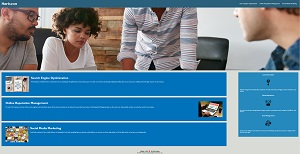
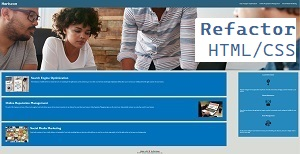
created readme file

diff --git a/assets/style.css b/assets/style.css
@@ -1,14 +1,15 @@
 body {
     background-color: lightgrey;
+    font-family: Georgia, 'Times New Roman', Times, serif;
 }
 
 header {
   display: flex;  
   justify-content: space-between;
   align-items: center;
-  background-color: darkgray;
   padding: 1%;
   height: 5vh;
+  background-color: rgb(165, 203, 235);;
 }
 
 nav {
@@ -22,21 +23,17 @@ nav {
     justify-content: space-around;
 }
 
-/* /* MIGHT HAVE TO DELETE */
 main {
     display: flex; 
-    /* display: 4;  */
-    /* height: 90vh; */
 } 
 
 .sidebar {
     background-color: steelblue;
     display: flex;
     flex-direction: column;
-    justify-content: space-around;
+    justify-content: space-between;
     /* margin-bottom: -3.3%; */
-    /* max-width: 10%; */
-    /* order: 1; */
+    width: 5.5%;
 }
 
 #item-1 {
@@ -58,16 +55,14 @@ flex-direction: column;
 }
 
 .about-me {
-/* flex: 1; */
-    /* order: 2; */
-/* margin-top: 2%; */
-/* display: flex; */
-/* margin: 20%; */
-background-color: cornflowerblue;
+margin-top: -1%;
+padding: 1%;
+text-align: center;
+/* background-color: cornflowerblue; */
 }
 
 .work-projects {
-    background-color: pink;
+    /* background-color: pink; */
     display: flex;
     flex-direction: column;
     align-items: center;
@@ -77,13 +72,19 @@ background-color: cornflowerblue;
 }
 
 .contact {
-    /* display: flex; */
-    background-color: aqua;
+    /* display: flex;
+    justify-content: space-between; */
+    /* background-color: aqua; */
+}
+
+.reach-out {
+    display: flex;
+    justify-content: space-evenly; 
 }
 
 footer {
     text-align: center;
-    background-color: darkgray;
+    background-color: rgb(165, 203, 235);
     padding-top: 1%;
 }
 

diff --git a/index.html b/index.html
@@ -22,12 +22,9 @@
     </header>
     <main>
         <div class="sidebar">
-            <!-- <div class="sidebar-sections"> -->
-                <!-- had them as UL -li and changed  -->
                 <span id="item-1">About Me</span>
                 <span id="item-2">Work</span>
                 <span id="item-3">Contact Me</span>
-            <!-- </div> -->
         </div>
         <div class="main-content">
             <section class="about-me">
@@ -38,7 +35,7 @@
             <section class="work-projects">
                 <div class="project-1">
                     <a href="https://ro-galvan.github.io/prework-about-me/">
-                    <img src="./assets/main-project.jpg" alt="screenshot of main project">
+                    <img src="./assets/main-project.png" alt="screenshot of main project">
                     </a>
                 </div>
                 <div class="project-2">
@@ -53,10 +50,11 @@
                 </div>
             </section>
             <section class="contact">
-                <address>
+                <address class="reach-out">
                     <a href="http://www.linkedin.com/in/rocio-galvan">LinkedIn</a> 
-                    <a href="https://github.com/Ro-Galvan">Github</a> 
+                    <!-- Email link to be provided at a later time -->
                     <a href="#">Email</a> 
+                    <a href="https://github.com/Ro-Galvan">Github</a> 
                  </address>
             </section>
         </div>

diff --git a/README.md b/README.md
@@ -1,1 +1,15 @@
 # rocio-galvan-portfolio
+
+[link to live website](https://ro-galvan.github.io/fun-seo-refactor/)
+
+[link to GitHub repository](https://github.com/Ro-Galvan/fun-seo-refactor)
+
+
+# Description
+
+This is my first from scratch website. I created it using HTML and CSS. It has some background info, links to a few of my projects and 2 ways to contact me.    
+
+
+# Visual
+
+![Website Overview](./assets/for-readme.jpg
